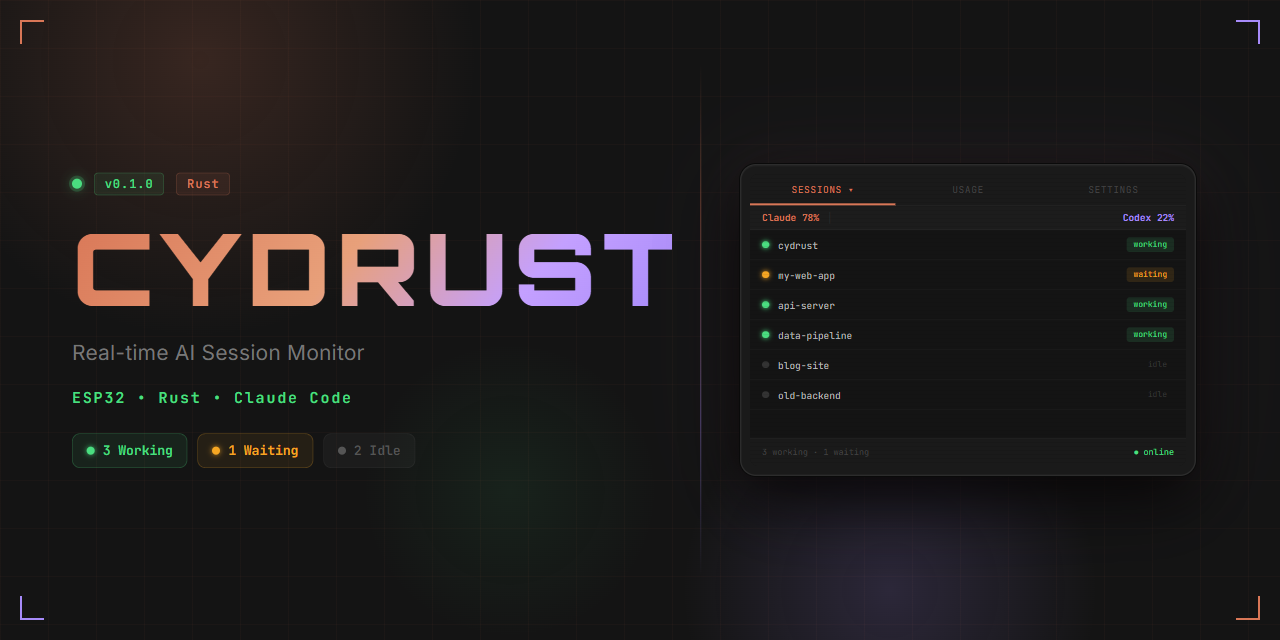
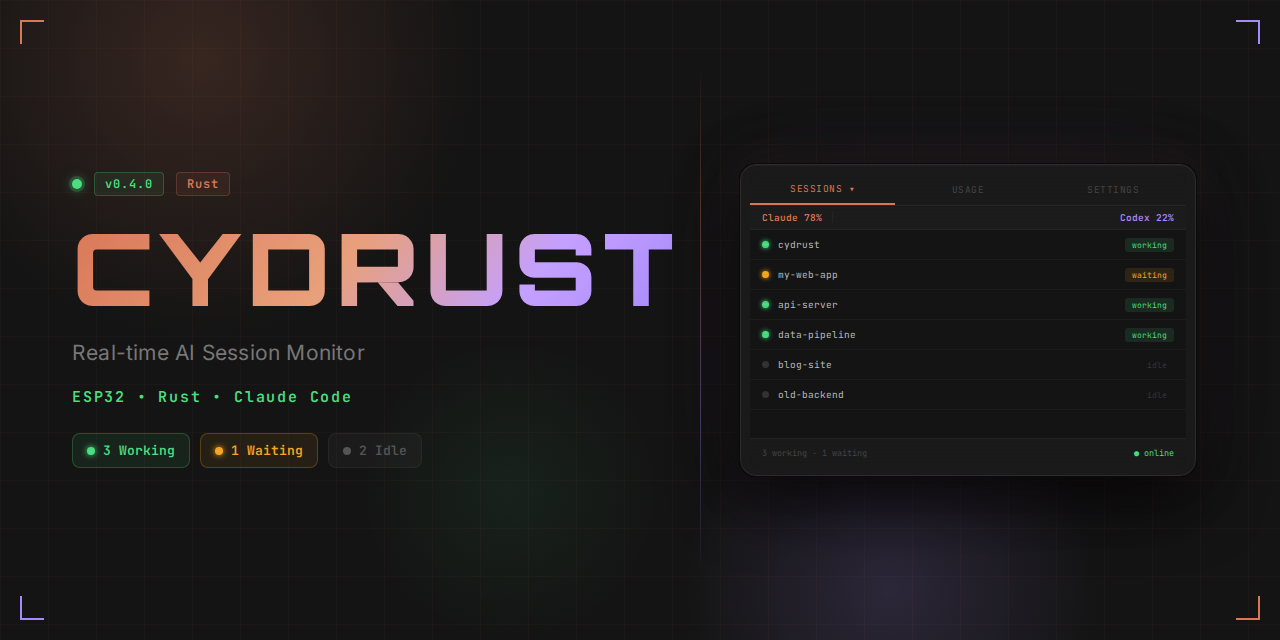
chore(release): bump version to 0.4.0
Pixel-art screensaver (PR #22) plus the CI BLE/sdkconfig fix (PR #20). See the
CHANGELOG [0.4.0] entry for details. Banner refreshed from the stale v0.1.0 to
v0.4.0 (docs/assets/banner.html re-rendered to banner.png).

diff --git a/docs/assets/banner.html b/docs/assets/banner.html
@@ -255,7 +255,7 @@
   <div class="left">
     <div class="meta-row">
       <div class="live-dot"></div>
-      <span class="version-badge">v0.1.0</span>
+      <span class="version-badge">v0.4.0</span>
       <span class="lang-badge">Rust</span>
     </div>
 

diff --git a/CHANGELOG.md b/CHANGELOG.md
@@ -7,6 +7,23 @@ and this project adheres to [Semantic Versioning](https://semver.org/spec/v2.0.0
 
 ## [Unreleased]
 
+## [0.4.0] - 2026-08-03
+
+### Added
+- **Firmware** — Pixel-art screensaver: a fifth **PIXEL** tab shows an animated mascot whose animation reflects agent activity (`sleeping` when offline/idle, `happy` when a session is waiting, `juggling` for 2+ working, `building` for one working-but-quiet session, `typing` for one working). Checked top-down, first match wins — an offline bridge short-circuits to `sleeping` so stale data never claims a session needs you
+- **Firmware** — The art also auto-engages as a full-screen screensaver after a configurable idle period; any touch dismisses it and returns to the previous tab. The idle timer is a separate clock from the sleep timeout, so a waiting session can still surface `happy`
+- **Firmware** — Settings gain an **Idle art** row (`Off` / `30s` / `1m` / `5m`); values that could never fire before the screen blanks (`Sleep after`) render unavailable and cannot be selected. Persisted in NVS. The e-ink build does not gain the feature
+- **Firmware** — `mascot.rs` (activity→animation mapping) and `sprite.rs` (RLE blob decoder), both std/embedded-graphics-only so 38 host tests run on plain stable without an ESP32 toolchain; plus `tools/gif2sprite.py` (committed asset pipeline) with its own tests
+- **CI** — App-image size guard: measures each firmware build against its intended flash partition and fails on overflow (default USB build: 665,713 B against a 1 MiB factory partition, ~382 KB headroom). A new `tools-test` job runs the converter tests
+
+### Changed
+- **CI** — The `bridge` change-filter now also triggers on `firmware/src/**` and `firmware/assets/**`, so a firmware-only change (e.g. an artwork refresh) still runs the host tests that `#[path]`-include the firmware sources
+- README documents the screensaver with the five animations; artwork adapted from [KebeliSamet0/clawd](https://github.com/KebeliSamet0/clawd) (MIT, see `assets/gif/NOTICE`)
+- Banner refreshed to v0.4.0
+
+### Fixed
+- **CI** — BLE build reported a permanent red check despite being non-blocking (`continue-on-error` moved from job to step level); layered `sdkconfig` now passed as absolute paths so the intended layer actually reaches the IDF build
+
 ## [0.3.0] - 2026-07-30
 
 ### Added
